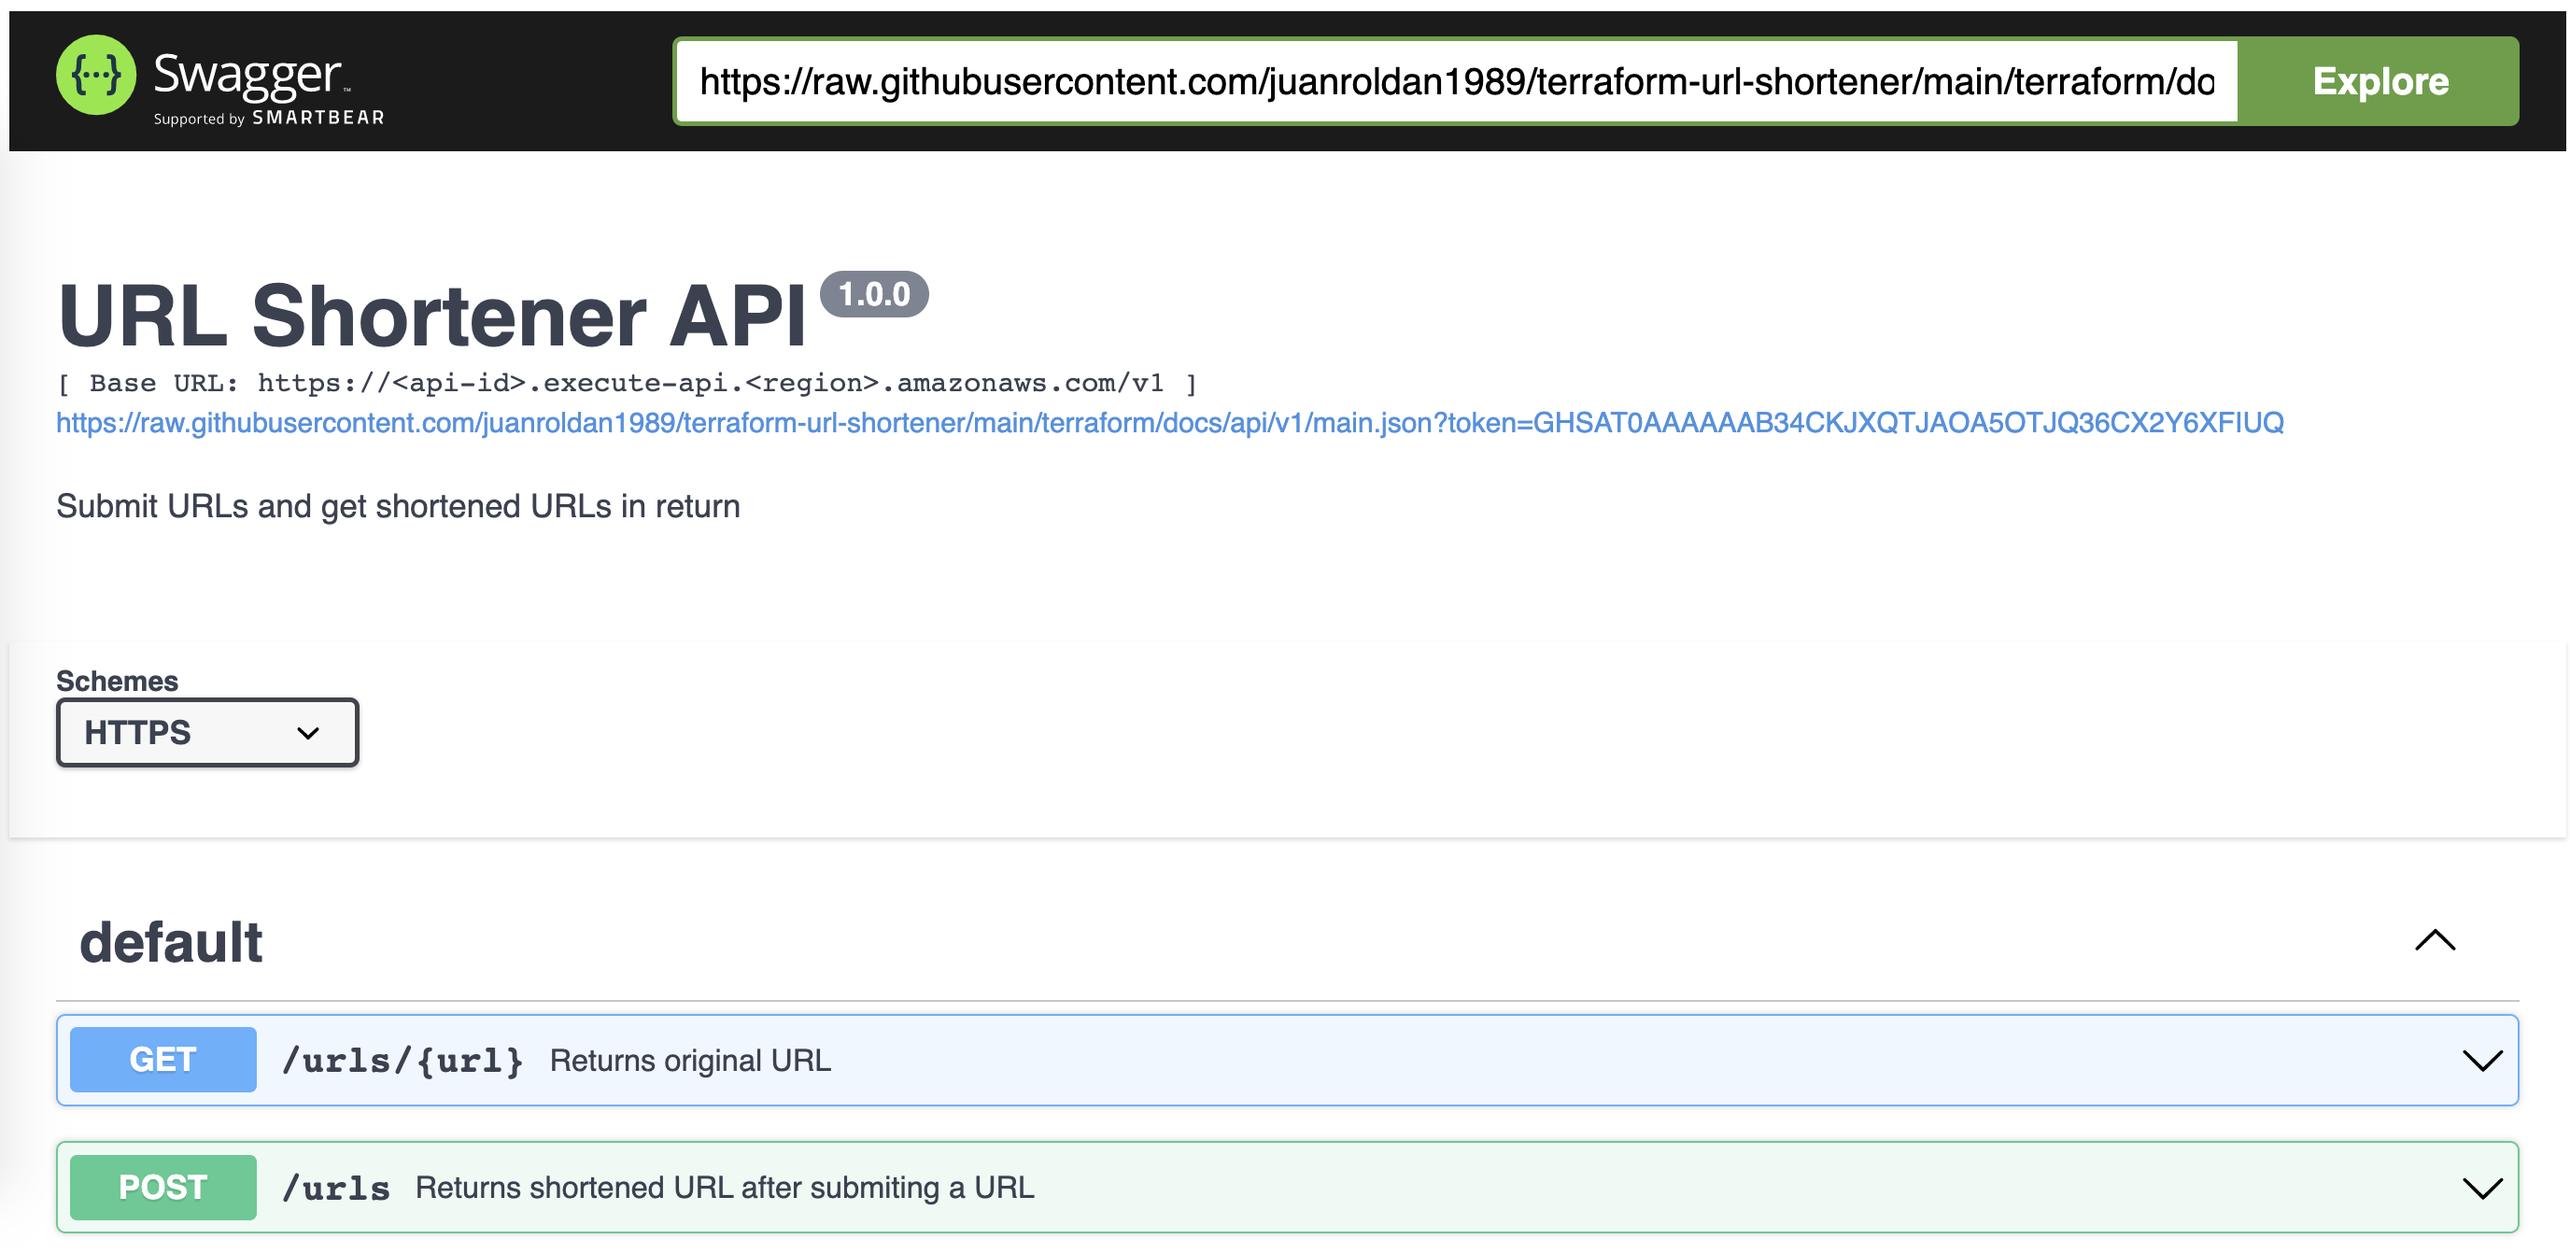
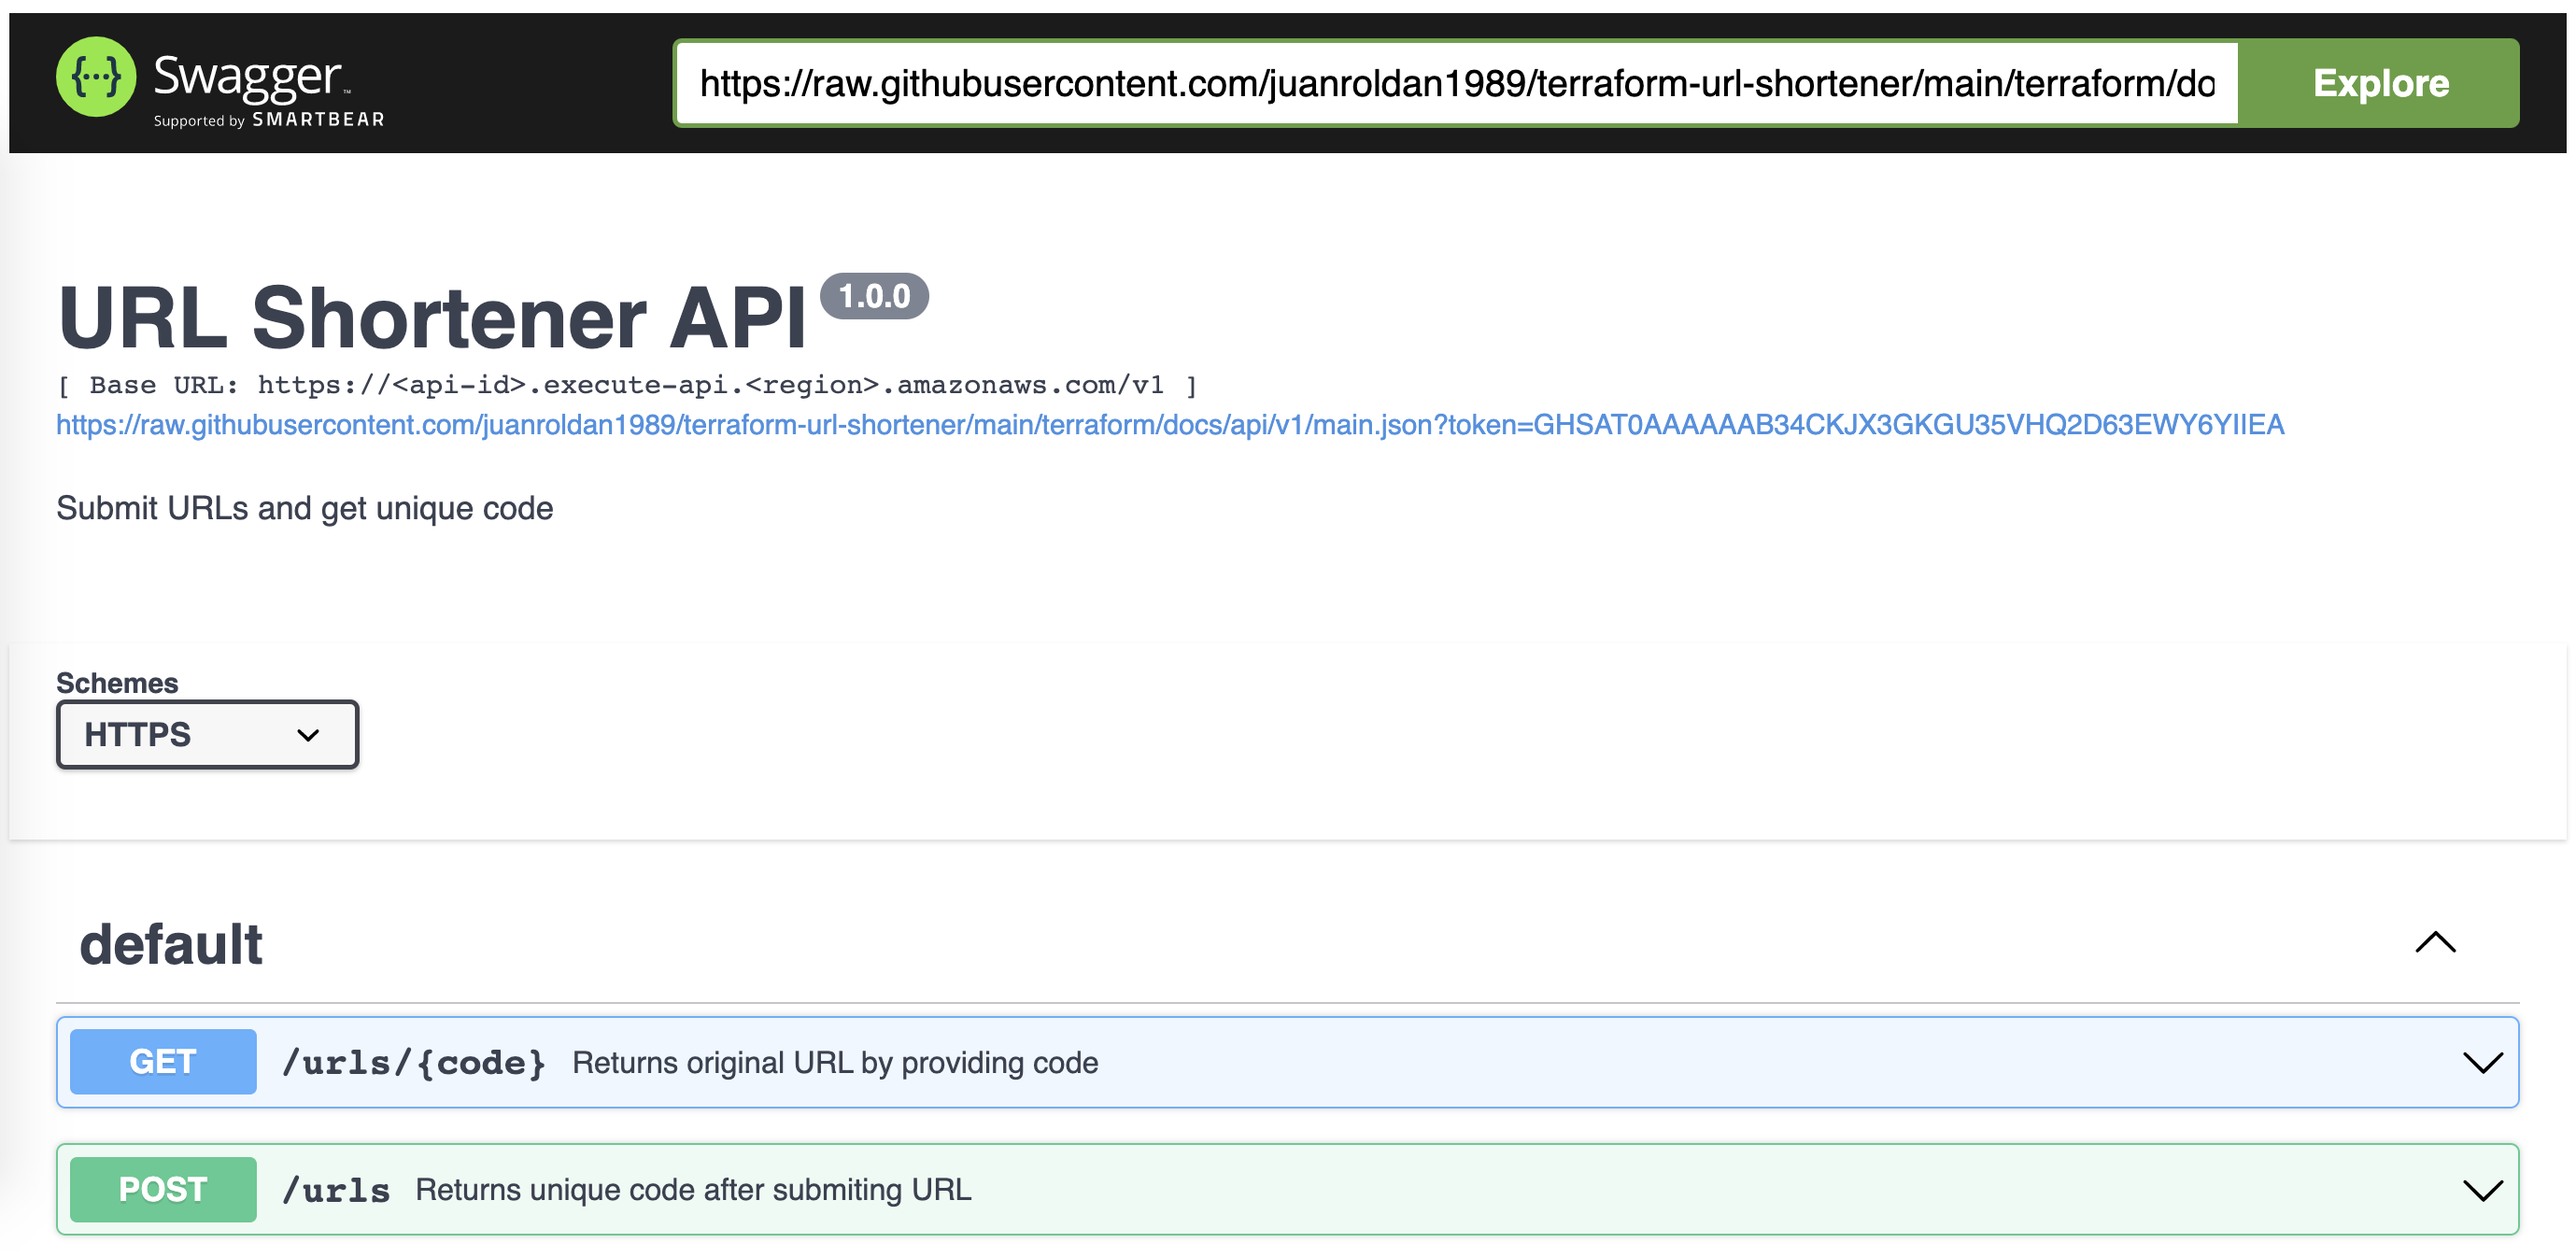
README adjusted
- `Core Features` section adjusted based on HashCode use when converting and fetching URLs.
- `Further Development` section adjusted with HashCode generation observations and more features.
- Swagger API Docs screenshot up-to-date.

diff --git a/README.md b/README.md
@@ -1,6 +1,6 @@
 # URL Shortener API
 
-1. Features
+1. Core Features
 2. API Docs
 3. CQRS Pattern
 4. HTTP Redirections
@@ -8,11 +8,48 @@
 6. API Development Life Cycle
 7. Further Improvements
 
-## Features
+## Core Features
 
-- Ability to submit URL `https://really-awesome-long-url.com` to API (POST request).
-- Receive short URL `https://short.com` in return.
-- Short URL can then be used and should redirect to original URL (GET request).
+1. Ability to submit URL `https://really-awesome-long-url.com` to API (`POST request`):
+
+```ruby
+% curl -X POST \
+-H "Content-Type: application/json" \
+-d '{"url": "https://this-is-my-original-url"}' \
+https://<api-id>.execute-api.<region>.amazonaws.com/v1/urls
+```
+
+Response:
+
+```
+736339761
+```
+
+2. Should receive `hashCode` associated with original URL. This approach allows `multiple` short-url domains to interact with this API.
+
+3. `hashCode` can then be used to build `https://<api-id>.execute-api.<region>.amazonaws.com/v1/urls/hashCode` and should return original URL `https://really-awesome-long-url.com` (`GET request`):
+
+```ruby
+% curl https://<api-id>.execute-api.<region>.amazonaws.com/v1/urls/736339761
+```
+
+Response:
+
+```
+https://this-is-my-original-url
+```
+
+**Clarification:** once a `Route53` record is configured with a custom domain name, the full production URL should look like this: `https://custom.com/hashCode`
+
+4. `HashCode` generation can be as **simple or complicated as required**. In order to create a unique hash from a specific string, it can be implemented using:
+
+   4.a. Its own `string-to-hash` converting function. It will return the hash equivalent of a string. **(approach implemented)**
+
+   4.b. `N digits` hashCode composed of `[0-9a-zA-Z]` types of characters (`62` characters in total). This represents `62^N` possibilities for IDs -> For `N = 5` -> Total amount of unique IDs: `916.132.832`. **(further development)**
+
+   4.c. Also, a library named `Crypto` can be used to generate various types of hashes like `SHA1`, `MD5`, `SHA256`, and many more. **(further development)**
+
+Reference: https://www.geeksforgeeks.org/how-to-create-hash-from-string-in-javascript/
 
 ## API Docs page
 
@@ -75,6 +112,8 @@ https://developer.mozilla.org/en-US/docs/Web/HTTP/Redirections#permanent_redirec
 
 ## Further Improvements
 
+**New features (or improvements) that come to mind while working on core features are place on this list**
+
 - `GET /urls/{url}` path parameter can be sent as `GET /urls?url={url}` query parameter instead. Adjust `aws_api_gateway_integration` terraform resource:
 
 https://registry.terraform.io/providers/hashicorp/aws/latest/docs/resources/api_gateway_integration
@@ -82,6 +121,12 @@ https://registry.terraform.io/providers/hashicorp/aws/latest/docs/resources/api_
 https://aws.amazon.com/premiumsupport/knowledge-center/pass-api-gateway-rest-api-parameters/
 
 https://docs.aws.amazon.com/apigateway/latest/developerguide/api-gateway-mapping-template-reference.html#input-variable-reference
+
+- `POST /urls` request could be triggered twice (or more) with the same `url` on its payload. Adjust backend to support this scenario. Create record in table for first request. Do not create another record for second request.
+
+- `GET /urls/{code}` request could be triggered many times. Consider caching implementation.
+
+- Expand on `CQRS` pattern implementation, for high number of `POST /urls` requests decouple requests by adding an `SQS Queue` instead of writing directly into DynamoDB table.
 
 - URLs shortened can be `temporal` or `permanent` ones.
 
